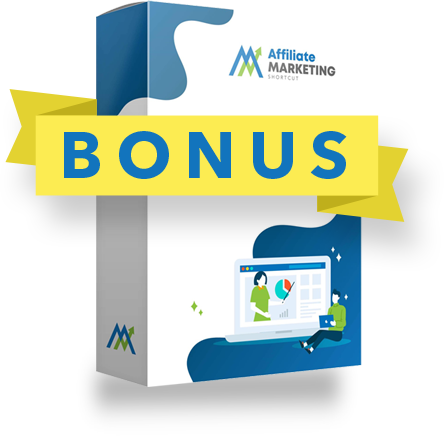
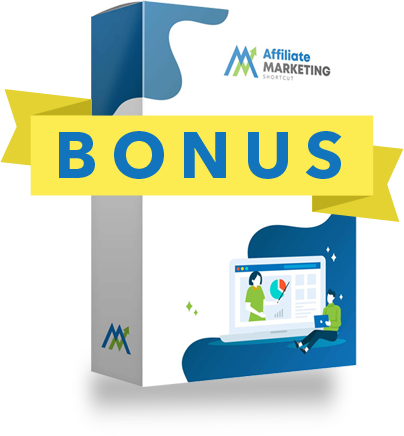
few change in bonus

diff --git a/index.html b/index.html
@@ -637,7 +637,7 @@
         </h1>
         <div class="row mt-5">
           <div class="col-lg-5">
-            <img src="./img/section8-1.png" alt="" style="width:95%;">
+            <img src="./img/section8-1.png" alt="" style="width:98%;" class="png-shadow">
           </div>
           <div class="col-lg-7 my-auto">
               <h6
@@ -659,12 +659,12 @@
             <p class="white f-15">3 New Tested & Proven Swipes Will Be Added To The Winning Swipe Library Week.</p> 
             </div>
             <div class="col-lg-5 order-0 order-lg-1">
-                <img src="./img/section8-1.png" alt="" style="width:95%;">
+                <img src="./img/section8-1.png" alt="" style="width:98%;" class="png-shadow">
             </div>
         </div>
         <div class="row mt-5">
             <div class="col-lg-5">
-              <img src="./img/section8-1.png" alt="" style="width:95%;">
+              <img src="./img/section8-1.png" alt="" style="width:98%;" class="png-shadow">
             </div>
             <div class="col-lg-7 my-auto">
                 <h6
